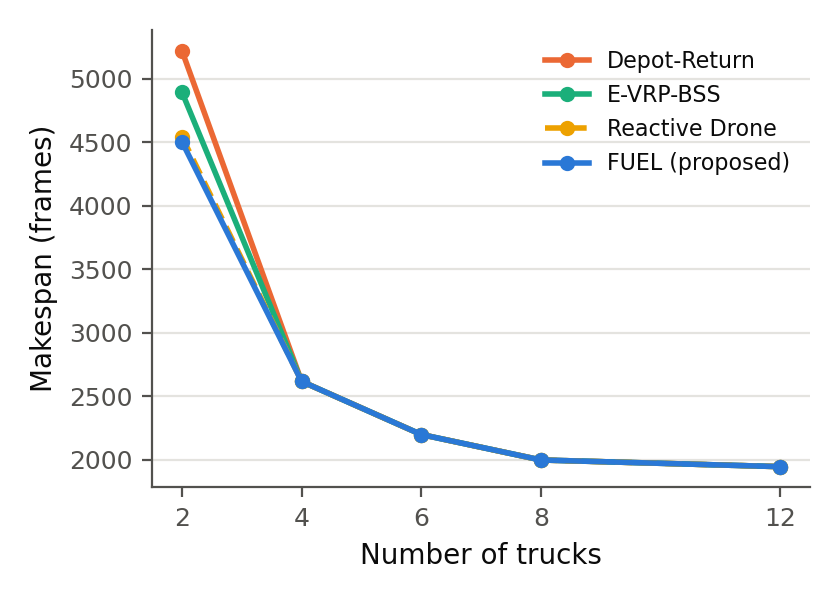
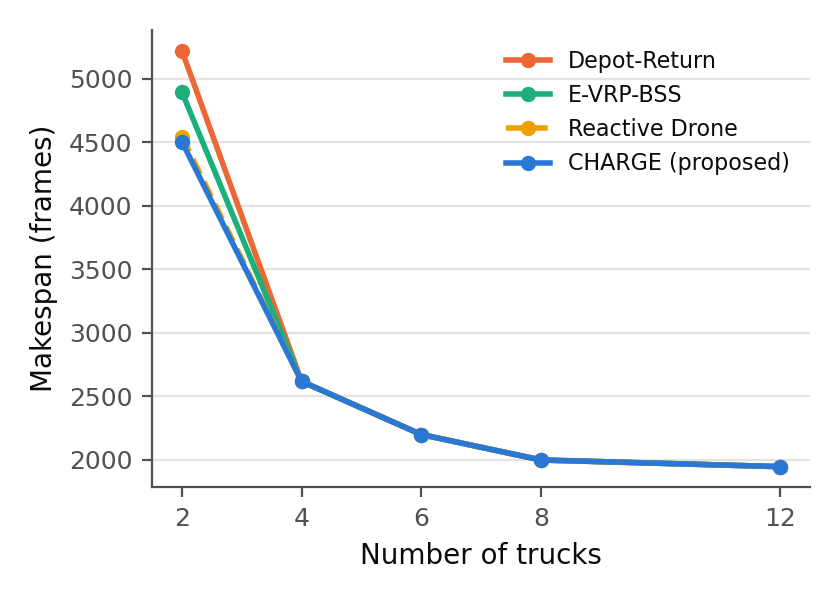
Update terminology from FUEL to CHARGE across documentation and codebase

Changed region(s): [[0.5881, 0.09, 0.9286, 0.3]]

diff --git a/dronesim/simulation.py b/dronesim/simulation.py
@@ -79,7 +79,7 @@ class Drone:
     home: int  # base station index
     range_left: float = config.DRONE_RANGE
     target: int = None  # index of the truck being serviced, or None
-    target_point: tuple = None  # planned rendezvous point (FUEL); None = chase the truck
+    target_point: tuple = None  # planned rendezvous point (CHARGE); None = chase the truck
     returning: bool = False
     service_timer: int = 0
     total_flight_dist: float = 0.0
@@ -388,7 +388,7 @@ class Simulation:
         return dist / config.TRUCK_SPEED
 
     def _dispatch_predictive(self):
-        """FUEL: ETA-triggered dispatch with Hungarian drone assignment.
+        """CHARGE: ETA-triggered dispatch with Hungarian drone assignment.
 
         A pending request (truck with a planned swap cell, no drone inbound)
         activates once the truck's time-to-node is within the closest feasible
@@ -633,7 +633,7 @@ class Simulation:
         """No feasible plan exists (some task cannot be reached and left again
         within the usable range under this strategy's options). Fall back to
         the myopic per-leg rule of Algorithm 2: proceed if the leg plus the
-        return to the depot is affordable, otherwise swap (FUEL) or go home."""
+        return to the depot is affordable, otherwise swap (CHARGE) or go home."""
         w = self.world
         next_task = remaining[0]
         fuel = self.truck_range if truck.at_warehouse else truck.fuel
@@ -880,7 +880,7 @@ class Simulation:
         tasks_left = sum(len(t.tasks) - len(t.completed) for t in self.trucks)
 
         draw([OPERATION.hud_panel, 10, 10, 370, 72])
-        draw([OPERATION.hud_text, 20, 28, '#263238', f'STRATEGY: {self.strategy.value.upper()}'])
+        draw([OPERATION.hud_text, 20, 28, '#263238', f'STRATEGY: {config.STRATEGY_LABEL.get(self.strategy, self.strategy.value.upper())}'])
         draw([OPERATION.hud_text, 20, 48, '#263238',
               f'DRONES  en route {en_route}  returning {returning}  docked {docked}'])
         draw([OPERATION.hud_text, 20, 68, '#263238',

diff --git a/dronesim/config.py b/dronesim/config.py
@@ -7,8 +7,17 @@ class Strategy(Enum):
     DEPOT_ONLY = 'depot_only'                  # Baseline 1: Return to central depot to refuel
     FIXED_STATION_EVRP = 'fixed_station_evrp'  # Baseline 2: Detour to nearest static base station
     REACTIVE_DRONE = 'reactive_drone'          # Baseline 3: Drone swap dispatched at low battery threshold
-    PROACTIVE_FUEL = 'proactive_fuel'          # Proposed: Predictive BMS aerial drone swap (Algorithm 2)
+    PROACTIVE_FUEL = 'proactive_fuel'          # Proposed (CHARGE): Predictive BMS aerial drone swap (Algorithm 2)
 
+
+# Display names used in the GUI/HUD and figures. The enum *values* are kept
+# as-is because every results CSV and sweep file is keyed on them.
+STRATEGY_LABEL = {
+    Strategy.DEPOT_ONLY: 'DEPOT-RETURN',
+    Strategy.FIXED_STATION_EVRP: 'E-VRP-BSS',
+    Strategy.REACTIVE_DRONE: 'REACTIVE DRONE',
+    Strategy.PROACTIVE_FUEL: 'CHARGE (proposed)',
+}
 
 # Simulation Strategy
 DEFAULT_STRATEGY = Strategy.PROACTIVE_FUEL

diff --git a/plot_sweeps.py b/plot_sweeps.py
@@ -24,7 +24,7 @@ STRAT_COLOR = {
     'reactive_drone': '#eda100',
 }
 STRAT_LABEL = {
-    'proactive_fuel': 'FUEL (proposed)',
+    'proactive_fuel': 'CHARGE (proposed)',
     'depot_only': 'Depot-Return',
     'fixed_station_evrp': 'E-VRP-BSS',
     'reactive_drone': 'Reactive Drone',
@@ -73,7 +73,7 @@ def fig_fleet():
     by = agg(rows, ['strategy', 'num_trucks'])
     for s in ('depot_only', 'fixed_station_evrp', 'reactive_drone', 'proactive_fuel'):
         ys = [by[(s, str(t))][0] for t in trucks]
-        # Reactive nearly coincides with FUEL: dash it so both stay readable
+        # Reactive nearly coincides with CHARGE: dash it so both stay readable
         ax.plot(trucks, ys, color=STRAT_COLOR[s], linewidth=2, marker='o',
                 markersize=4.5, label=STRAT_LABEL[s],
                 linestyle=(0, (3, 1.5)) if s == 'reactive_drone' else '-',

diff --git a/README.md b/README.md
@@ -1,4 +1,4 @@
-# DroneSim — FUEL: Drone-Delivered Battery Swaps for Last-Mile Fleets
+# DroneSim — CHARGE: Drone-Delivered Battery Swaps for Last-Mile Fleets
 
 Two runnable systems live in this repo:
 
@@ -68,9 +68,9 @@ Every strategy runs on the **same** seeded scenario and the **same** plan:
    segment exceeds the usable range (`TRUCK_RANGE - SAFE_RETURN_MARGIN`).
    Strategies differ only in the options the planner may use:
    depot detour (Depot-Return), station or depot detour (E-VRP-BSS),
-   aerial swap or depot detour (FUEL). The reactive baseline plans nothing
+   aerial swap or depot detour (CHARGE). The reactive baseline plans nothing
    and dispatches on a battery threshold.
-3. **Dispatch** (FUEL): a swap request activates once the truck's time to
+3. **Dispatch** (CHARGE): a swap request activates once the truck's time to
    its planned rendezvous node is within a drone's ETA (+ lead); active
    requests are matched to idle drones with the Hungarian algorithm on
    expected waiting time. The drone flies to the node; the truck parks

diff --git a/gazebo_emulation/README.md b/gazebo_emulation/README.md
@@ -1,6 +1,6 @@
-# FUEL Fleet Emulation (ROS 2 Jazzy + Gazebo Harmonic)
+# CHARGE Fleet Emulation (ROS 2 Jazzy + Gazebo Harmonic)
 
-Docker-based high-fidelity recreation of the FUEL experiment: **6 delivery
+Docker-based high-fidelity recreation of the CHARGE experiment: **6 delivery
 trucks** start at the central warehouse and patrol routes through the full
 maze; **4 quadcopters** (X3 model from the Gazebo Fuel library, full
 multicopter rotor dynamics) dock at base stations in the four quadrants. Every
